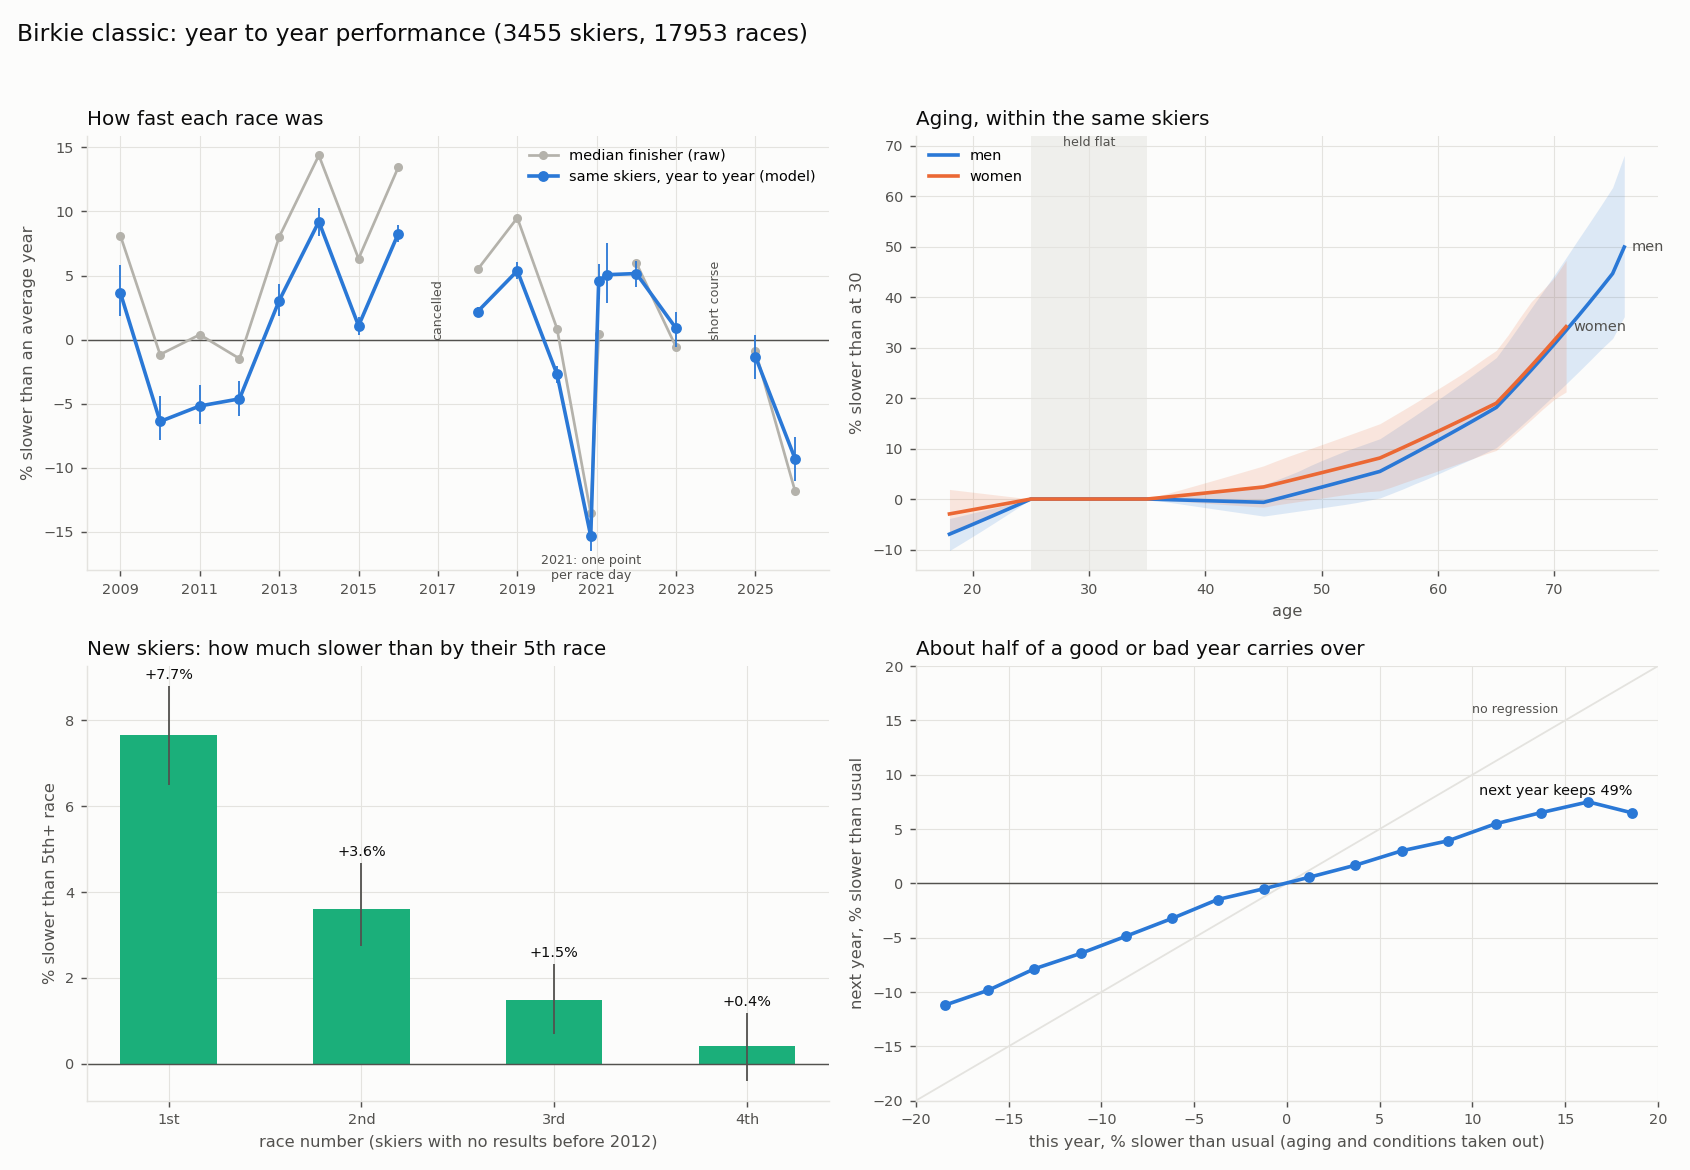
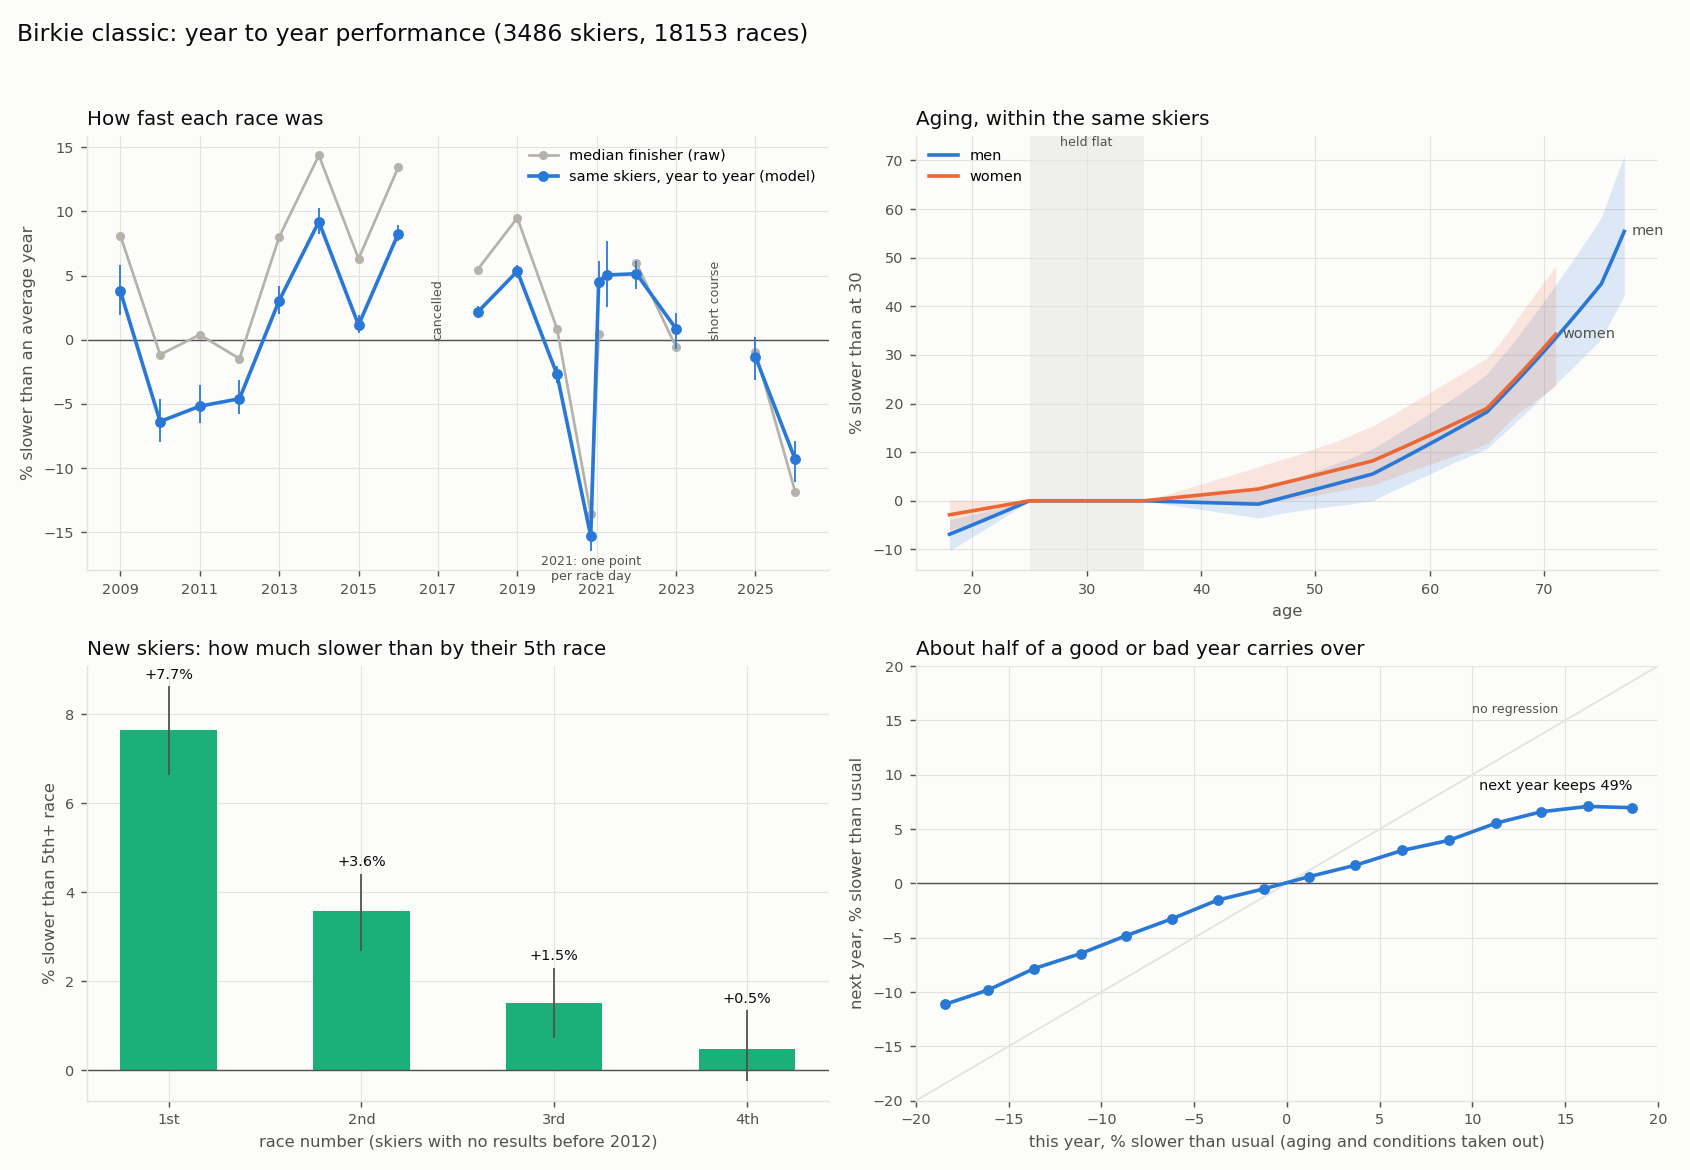
Tune athlete linking for movers and repeat-racing families
Count name and place frequencies by distinct people instead of
results, so a family of regulars doesn't make its own last name or
town look common. Replace the flat moving rate with one measured by
age and years between races: young skiers change states far more
often (12% of 22-25 year olds a year later vs 2% of 40-55s), so a move
counts against them less, and more against older skiers over short
gaps. Fixes splits like Dan Polasky's college-to-home move.

Held-out finish-time consistency is unchanged overall (0.899
correlation, 0.6% large jumps) over ~160 more back-to-back pairs.
Analysis results barely move; overview figures regenerated.

Also in the per-skier plot: the expected line now includes the
newcomer experience effect, and time axis labels no longer round
3:59.6 to 3:00.

diff --git a/athlete_linking.py b/athlete_linking.py
@@ -4,8 +4,9 @@
 #   - results are only compared when the last names match and the first names are the same or a nickname
 #     ("Drew"/"Andrew", "Bob"/"Robert", "Chris"/"Christopher")
 #   - each pair of results gets a score, the log odds that they're the same person. it starts from how common the
-#     name is, then adds evidence from birth year (exact age 2021+, age group 2016-2020), middle initial
-#     (mostly 2009-2014) and hometown
+#     name is (counted by people, not results), then adds evidence from birth year (exact age 2021+, age group
+#     2016-2020), middle initial (mostly 2009-2014) and hometown, where a move counts for less the younger the skier
+#     and the more years in between
 #   - pairs are merged best first, never merging two groups of results that contradict each other
 #     (two results in the same race, different genders, incompatible birth years, Jr/Sr, different middle initials)
 #finish times are deliberately not used, so the links can't bias a year to year performance analysis
@@ -14,6 +15,7 @@
 #python athlete_linking.py                      link everything, write linked_data/
 #python athlete_linking.py --name "drew polasky"  print one skier's history
 import argparse
+import bisect
 import functools
 import itertools
 import math
@@ -274,12 +276,16 @@ def last_name_keys(last, middle):
 class NameModel:
     #frequencies of names and places, for how surprising it is that two results share them
     def __init__(self, records):
-        self.n = len(records)
-        self.first = Counter(r.first for r in records)
-        self.last = Counter(key for r in records for key in r.last_keys)
-        self.n_people = len({(r.first, r.last) for r in records})
-        self.region = Counter(r.region for r in records if r.region)
-        self.city = Counter((r.city, r.region) for r in records if r.city and r.region)
+        #names are counted by people (distinct names), not results, so a family of regulars racing every year
+        #doesn't make their last name look common
+        names = {(r.first, r.last) for r in records}
+        self.n_people = len(names)
+        self.first = Counter(first for first, last in names)
+        self.last = Counter(key for key, first in {(key, r.first) for r in records for key in r.last_keys})
+        #same for places: the share of people from each state and city
+        self.region = Counter(region for name, region in {((r.first, r.last), r.region) for r in records if r.region})
+        self.city = Counter(place for name, place in {((r.first, r.last), (r.city, r.region))
+                                                      for r in records if r.city and r.region})
         #a name that shows up more than once in a year before FIRST_MULTI_RACE_YEAR belongs to at least that many people
         per_year = Counter((r.first, r.last, r.year) for r in records if r.year < FIRST_MULTI_RACE_YEAR)
         self.min_people = defaultdict(lambda: 1)
@@ -290,7 +296,7 @@ class NameModel:
         #log odds that two results with this name are the same person, before any other evidence:
         #about -log(number of other people expected to share the name)
         n_first = max(self.first[a.first], self.first[b.first])
-        others = n_first / self.n * self.last[last_key] / self.n * self.n_people
+        others = n_first * self.last[last_key] / self.n_people
         others = max(others, self.min_people[(a.first, a.last)] - 1, self.min_people[(b.first, b.last)] - 1)
         return min(6.0, -math.log(max(others, 1e-6)))
 
@@ -346,21 +352,42 @@ def birth_year_score(a, b):
 def location_score(a, b, model):
     if not a.region or not b.region:
         return 0.0
-    gap = abs(a.year - b.year)
-    #how often the same skier still lists the same city / state this many years later (measured on rare names)
-    p_city = max(0.6, 0.93 - 0.05 * gap)
-    p_region = max(0.85, 0.98 - 0.02 * gap)
-    f_region = model.region[a.region] / model.n
+    moved_state, moved_city = move_rates(a, b)
+    f_region = model.region[a.region] / model.n_people
     if a.region != b.region:
         if len(a.city) >= 5 and a.city == b.city:
             return 0.0          #"maple grove MN" / "maple grove WI" is far more likely a typo than a move
-        return math.log((1 - p_region) / max(1 - f_region, 0.05))
+        return math.log(moved_state / max(1 - f_region, 0.05))
     if not a.city or not b.city:
-        return min(math.log(p_region / f_region), 3.0)
-    f_city = max(model.city[(a.city, a.region)], 1) / model.n
+        return min(math.log((1 - moved_state) / f_region), 3.0)
+    f_city = max(model.city[(a.city, a.region)], 1) / model.n_people
     if same_city(a.city, b.city):
-        return min(math.log(p_city / f_city), 4.5)
-    return max(-3.0, min(3.0, math.log((p_region - p_city) / max(f_region - f_city, 0.002))))
+        return min(math.log((1 - moved_city) / f_city), 4.5)
+    return max(-3.0, min(3.0, math.log((moved_city - moved_state) / max(f_region - f_city, 0.002))))
+
+
+#how often the same skier lists a different state (or country) / a different city when they race again, by their age
+#at the earlier race and the years in between. measured on rare names with consistent ages, so the links aren't
+#in doubt. young skiers move a lot more: 12% of 22-25 year olds are in a different state a year later, 2% of 40-55s
+MOVE_GAP_BANDS = [1, 2, 4, 7, 11]       #upper ends of the gap bands, longer gaps use the last band
+MOVE_RATES = {                          #age band start -> (different state, different city) for each gap band
+    None: [(0.035, 0.10), (0.050, 0.15), (0.071, 0.21), (0.094, 0.28), (0.126, 0.36), (0.147, 0.42)],
+    0:  [(0.030, 0.11), (0.051, 0.16), (0.103, 0.27), (0.200, 0.45), (0.326, 0.66), (0.389, 0.79)],
+    22: [(0.123, 0.25), (0.184, 0.40), (0.266, 0.55), (0.340, 0.71), (0.412, 0.80), (0.413, 0.83)],
+    26: [(0.086, 0.23), (0.134, 0.35), (0.182, 0.46), (0.239, 0.56), (0.266, 0.65), (0.266, 0.65)],
+    30: [(0.045, 0.12), (0.061, 0.19), (0.077, 0.25), (0.093, 0.33), (0.111, 0.38), (0.111, 0.42)],
+    40: [(0.018, 0.06), (0.022, 0.09), (0.032, 0.13), (0.039, 0.18), (0.055, 0.24), (0.072, 0.29)],
+    55: [(0.021, 0.06), (0.028, 0.09), (0.041, 0.13), (0.056, 0.18), (0.074, 0.23), (0.102, 0.27)],
+}
+
+def move_rates(a, b):
+    gap_band = bisect.bisect_left(MOVE_GAP_BANDS, abs(a.year - b.year))
+    birth = a.birth or b.birth
+    age_band = None
+    if birth:
+        age = min(a.year, b.year) - (birth[0] + birth[1]) / 2
+        age_band = max([k for k in MOVE_RATES if k is not None and k <= age], default=0)
+    return MOVE_RATES[age_band][gap_band]
 
 
 class Cluster:

diff --git a/performance_changes.py b/performance_changes.py
@@ -426,11 +426,8 @@ def plot_skier(fit, name, label):
         print('\n{} matches {} skiers in this race, not plotting'.format(name, len(ids)))
         return
     rows = p[p['athlete_id'] == ids[0]].sort_values('year')
-    sex = rows['sex'].iloc[0]
-    years = np.arange(rows['year'].min(), rows['year'].max() + 1)
-    ages = years - rows['birth_year'].iloc[0]
-    #what the model expects from this skier on an average day: their ability plus the aging (and learning) curve
-    expected_log = rows['ability'].iloc[0] + np.log1p(age_curve(fit['beta'], sex, ages) / 100)
+    #what the model expects from this skier on an average day: their ability, age and experience, without that day's luck
+    rows = rows.assign(expected=rows['adjusted'] - rows['resid'])
     to_hours = lambda log_t: np.exp(log_t)
 
     fig, ax = plt.subplots(figsize=(9, 5), facecolor=SURFACE)
@@ -438,8 +435,9 @@ def plot_skier(fit, name, label):
             label='actual finish time')
     ax.plot(rows['year'], to_hours(rows['adjusted']), color=COLORS['M'], marker='o', markersize=6, linewidth=2,
             label='adjusted to an average year')
-    ax.plot(years, to_hours(expected_log), color=COLORS['F'], linewidth=1.5, label='expected from ability + age')
-    ax.yaxis.set_major_formatter(plt.FuncFormatter(lambda h, _: '{}:{:02d}'.format(int(h), int(round(h % 1 * 60)) % 60)))
+    ax.plot(rows['year'], to_hours(rows['expected']), color=COLORS['F'], linewidth=1.5,
+            label='expected from ability, age and experience')
+    ax.yaxis.set_major_formatter(plt.FuncFormatter(lambda h, _: '{}:{:02d}'.format(*divmod(int(round(h * 60)), 60))))
     ax.invert_yaxis()
     ax.legend(frameon=False, fontsize=8)
     style(ax, '{}, {} {} (faster is up)'.format(rows['name'].iloc[-1], *label.split('_')), 'finish time', 'year')
@@ -449,10 +447,11 @@ def plot_skier(fit, name, label):
     print('saved', path)
     plt.close(fig)
 
-    print(rows.assign(actual=pd.to_datetime(rows['time_s'], unit='s').dt.strftime('%H:%M:%S'),
-                      adjusted=pd.to_datetime(rows['adjusted_time_s'], unit='s').dt.strftime('%H:%M:%S'),
+    clock = lambda seconds: pd.to_datetime(seconds, unit='s').dt.strftime('%H:%M:%S')
+    print(rows.assign(actual=clock(rows['time_s']), adjusted=clock(rows['adjusted_time_s']),
+                      expected=clock(np.exp(rows['expected']) * 3600),
                       conditions=(100 * (np.exp(rows['condition_effect']) - 1)).round(1))[
-        ['year', 'age_at_race', 'actual', 'conditions', 'adjusted']].to_string(index=False))
+        ['year', 'age_at_race', 'race_number', 'actual', 'conditions', 'adjusted', 'expected']].to_string(index=False))
 
 
 if __name__ == '__main__':
